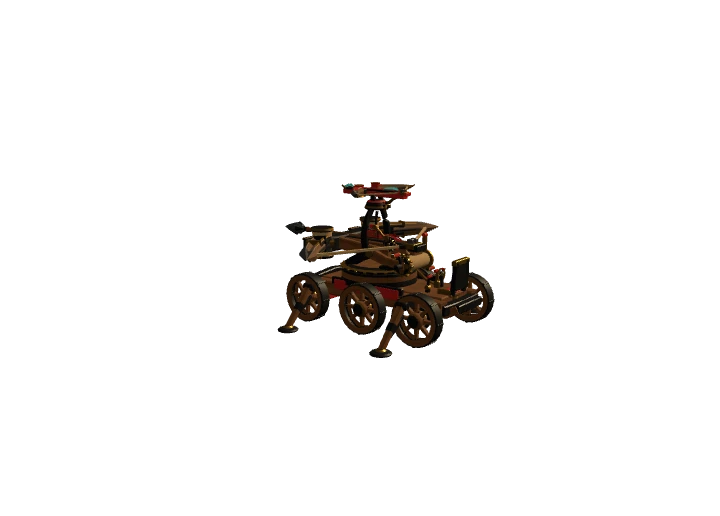
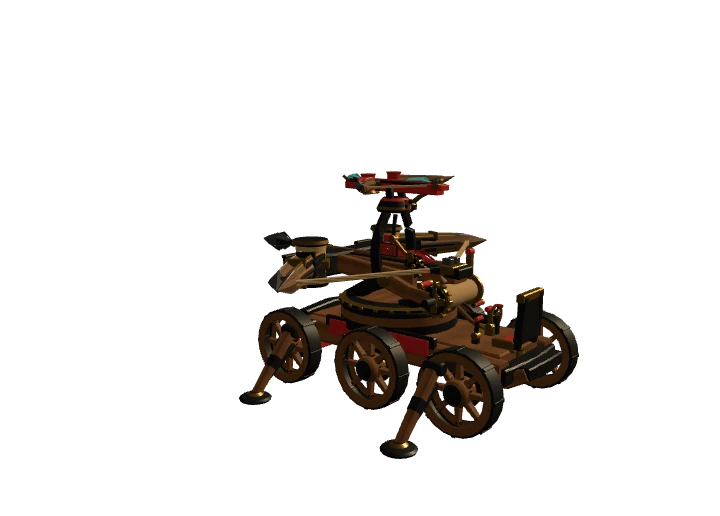
Enlarge and shift static Workshop machine previews clear of the Spellblade

Changed region(s): [[0.3361, 0.3101, 0.825, 0.8992]]

diff --git a/client/menu.css b/client/menu.css
@@ -525,8 +525,9 @@ html[data-turn] .turn-only { display: block !important; }
   box-shadow: inset 0 0 22px #17110d66; border-radius: 3px;
 }
 .siege-static-preview {
-  position: absolute; inset: 0; width: 100%; height: 100%; object-fit: contain; pointer-events: none;
-  transition: opacity .18s ease;
+  position: absolute; inset: 0; width: 100%; height: 100%; object-fit: contain;
+  transform: scale(1.05) translate(10%, 5%); transform-origin: center bottom;
+  pointer-events: none; transition: opacity .18s ease;
 }
 .siege-static-preview[hidden] { display: none; }
 .siege-model-status {
